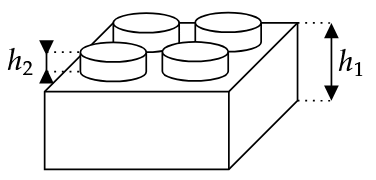
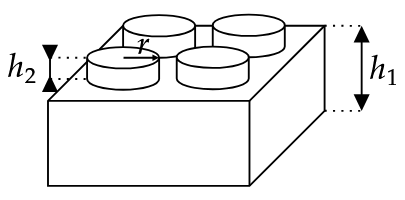
4C fertig

Changed region(s): [[0.0, 0.0556, 0.9947, 0.9722], [0.0878, 0.1944, 0.1463, 0.25]]

diff --git a/src/content/implementations/BW_2BFS/312-2024-4C-Betonkörper.tsx b/src/content/implementations/BW_2BFS/312-2024-4C-Betonkörper.tsx
@@ -1,6 +1,16 @@
 import { Exercise } from '@/data/types'
+import { Color4 } from '@/helper/colors'
+import { buildEquation, buildInlineFrac } from '@/helper/math-builder'
+import { pp } from '@/helper/pretty-print'
+import { roundToDigits } from '@/helper/round-to-digits'
 
-interface DATA {}
+interface DATA {
+  länge: number
+  h1: number
+  h2: number
+  r: number
+  weight: number
+}
 
 export const exercise312: Exercise<DATA> = {
   title: 'Betonkörper',
@@ -8,22 +18,32 @@ export const exercise312: Exercise<DATA> = {
   useCalculator: true,
   duration: 42,
   generator(rng) {
-    return {}
+    return {
+      länge: rng.randomIntBetween(20, 50) / 10,
+      h1: rng.randomIntBetween(20, 50) / 10,
+      h2: rng.randomIntBetween(1, 7) / 10,
+      r: rng.randomIntBetween(20, 50) / 10,
+      weight: rng.randomIntBetween(15, 35) * 100,
+    }
   },
-  originalData: {},
+  originalData: { länge: 3.5, h1: 1.4, h2: 0.4, r: 0.7, weight: 2600 },
   constraint({ data }) {
-    return true
+    return 2 * data.r < data.länge
   },
   intro({ data }) {
     return (
       <>
         <p>
           Vor einem Museum steht der abgebildete Körper aus Beton. Er hat eine
-          quadratische Grundfläche mit der Seitenlänge 3,5 m.
+          quadratische Grundfläche mit der Seitenlänge {pp(data.länge)} m.
         </p>
+        <svg viewBox="0 0 328 80">
+          <image href="/content/BW_2BFS/312.png" height="80" width="328" />
+        </svg>
         <p>
-          Die weiteren Maße des Lörpers sind: <br></br>h<sub>1</sub> = 1,4
-          m;&nbsp;&nbsp; h<sub>2</sub> = 0,4 m;&nbsp;&nbsp; r = 0,7 m
+          Die weiteren Maße des Körpers sind: <br></br>h<sub>1</sub> ={' '}
+          {pp(data.h1)} m;&nbsp;&nbsp; h<sub>2</sub> = {pp(data.h2)}{' '}
+          m;&nbsp;&nbsp; r = {pp(data.r)} m
         </p>
       </>
     )
@@ -38,14 +58,107 @@ export const exercise312: Exercise<DATA> = {
         return (
           <>
             <p>
-              Berechnen Sie, wie schwer der Körper ist, wenn 1 m³ Beton 2600 kg
-              wiegt.
+              Berechnen Sie, wie schwer der Körper ist, wenn 1 m³ Beton{' '}
+              {data.weight} kg wiegt.
             </p>
           </>
         )
       },
       solution({ data }) {
-        return <></>
+        return (
+          <>
+            <p>
+              <b>Volumen des Körpers</b>
+            </p>
+            <p>Berechne das Volumen der kleinen Zylinder:</p>
+            {buildEquation([
+              [
+                <>
+                  V<sub>Zylinder</sub>
+                </>,
+                <>=</>,
+                <>
+                  π · r² · h<sub>2</sub>
+                </>,
+              ],
+              [
+                <></>,
+                <>=</>,
+                <>
+                  π · {pp(data.r)}² · {pp(data.h2)}
+                </>,
+              ],
+              [
+                <></>,
+                <>≈</>,
+                <>
+                  {pp(roundToDigits(Math.PI * data.r * data.r * data.h2, 2))}
+                </>,
+              ],
+            ])}
+            <p>Das Volumen aller vier Zylinder beträgt:</p>
+            <p>
+              4 · {pp(roundToDigits(Math.PI * data.r * data.r * data.h2, 2))} ={' '}
+              {pp(roundToDigits(4 * Math.PI * data.r * data.r * data.h2, 2))}
+            </p>
+
+            <p>Das Volumen des Quaders ist:</p>
+            {buildEquation([
+              [
+                <>
+                  V<sub>Quader</sub>
+                </>,
+                <>=</>,
+                <>
+                  l · b · h<sub>1</sub>
+                </>,
+              ],
+              [
+                <></>,
+                <>=</>,
+                <>
+                  {pp(data.länge)} · {pp(data.länge)} · {pp(data.h1)}
+                </>,
+              ],
+              [<></>, <>=</>, <>{pp(data.länge * data.länge * data.h1)}</>],
+            ])}
+            <p>Das gesamte Volumen ist damit:</p>
+            <p>
+              {pp(roundToDigits(4 * Math.PI * data.r * data.r * data.h2, 2))} +{' '}
+              {pp(data.länge * data.länge * data.h1)} ≈{' '}
+              {pp(
+                data.länge * data.länge * data.h1 +
+                  roundToDigits(4 * Math.PI * data.r * data.r * data.h2, 2),
+              )}
+            </p>
+            <p>
+              Das Volumen beträgt:{' '}
+              {pp(
+                data.länge * data.länge * data.h1 +
+                  roundToDigits(4 * Math.PI * data.r * data.r * data.h2, 2),
+              )}{' '}
+              m³
+            </p>
+            <p>
+              <b>Gewicht des Körpers</b>
+            </p>
+            <p>Der Körper wiegt damit insgesamt:</p>
+            <p>
+              {pp(
+                data.länge * data.länge * data.h1 +
+                  roundToDigits(4 * Math.PI * data.r * data.r * data.h2, 2),
+              )}{' '}
+              m³ · {data.weight}
+              {buildInlineFrac(<>kg</>, <>m³</>)} ={' '}
+              {pp(
+                data.weight *
+                  (data.länge * data.länge * data.h1 +
+                    roundToDigits(4 * Math.PI * data.r * data.r * data.h2, 2)),
+              )}{' '}
+              kg
+            </p>
+          </>
+        )
       },
     },
     {
@@ -65,7 +178,174 @@ export const exercise312: Exercise<DATA> = {
         )
       },
       solution({ data }) {
-        return <></>
+        return (
+          <>
+            <p>
+              <b>Oberfläche der Zylinder</b>
+            </p>
+            <p>
+              Die Oberfläche der Zylinder besteht jeweils aus der Mantelfläche
+              und einem Deckel:
+            </p>
+            {buildEquation([
+              [
+                <>
+                  O<sub>Zylinder</sub>
+                </>,
+                <>=</>,
+                <>
+                  M<sub>Zylinder</sub> + D<sub>Zylinder</sub>
+                </>,
+              ],
+              [
+                <></>,
+                <>=</>,
+                <>
+                  2 · π · r · h<sub>2</sub> + π · r²
+                </>,
+              ],
+              [
+                <></>,
+                <>=</>,
+                <>
+                  2 · π · {pp(data.r)} · {pp(data.h2)} + π · {pp(data.r)}²
+                </>,
+              ],
+              [
+                <></>,
+                <>≈</>,
+                <>
+                  {pp(
+                    roundToDigits(
+                      2 * Math.PI * data.r * data.h2 +
+                        Math.PI * data.r * data.r,
+                      2,
+                    ),
+                  )}
+                </>,
+              ],
+            ])}
+            <p>
+              <b>Restliche Fläche des Quaders</b>
+            </p>
+            <svg viewBox="0 0 328 80">
+              <image
+                href="/content/BW_2BFS/312_2.png"
+                height="80"
+                width="328"
+              />
+            </svg>
+            <p>
+              Die Oberfläche besteht aus den vier Seitenflächen und der
+              Deckelfläche um die Zylinder.
+            </p>
+            <div>
+              <span style={{ fontSize: '0.8em' }}>
+                {buildEquation([
+                  [
+                    <>
+                      O<sub>Quader</sub>
+                    </>,
+                    <>=</>,
+                    <>
+                      M<sub>Quader</sub> + D<sub>Quader</sub>
+                    </>,
+                  ],
+                  [
+                    '',
+                    <>
+                      {' '}
+                      <Color4>
+                        <span className="inline-block  scale-y-[1.5]">↓</span>
+                      </Color4>
+                    </>,
+                    <>
+                      <div>
+                        <span style={{ fontSize: '0.7em' }}>
+                          <Color4>
+                            Die Deckelfläche des Quaders ist l · l, wobei man 4
+                            Kreisflächen abziehen muss
+                          </Color4>
+                        </span>
+                      </div>
+                    </>,
+                  ],
+                  [
+                    <></>,
+                    <>=</>,
+                    <>
+                      4 · l · h<sub>1</sub> + l · l - 4 · π · r²
+                    </>,
+                  ],
+                  [
+                    <></>,
+                    <>=</>,
+                    <>
+                      4 · {pp(data.länge)} · {pp(data.h1)} + {pp(data.länge)} ·{' '}
+                      {pp(data.länge)} - 4 · π · {pp(data.r)}²
+                    </>,
+                  ],
+                  [
+                    <></>,
+                    <>≈</>,
+                    <>
+                      {pp(
+                        roundToDigits(
+                          4 * data.länge * data.h1 +
+                            data.länge * data.länge -
+                            4 * Math.PI * data.r * data.r,
+                          2,
+                        ),
+                      )}
+                    </>,
+                  ],
+                ])}
+              </span>
+            </div>
+
+            <p>
+              <b>Gesamtfläche</b>
+            </p>
+            <p>Die gesamte Fläche beträgt:</p>
+            <p>
+              <div>
+                <span style={{ fontSize: '0.8em' }}>
+                  O = O<sub>Quader</sub> + O<sub>Quader</sub> ={' '}
+                  {pp(
+                    roundToDigits(
+                      2 * Math.PI * data.r * data.h2 +
+                        Math.PI * data.r * data.r,
+                      2,
+                    ),
+                  )}{' '}
+                  +{' '}
+                  {pp(
+                    roundToDigits(
+                      4 * data.länge * data.h1 +
+                        data.länge * data.länge -
+                        4 * Math.PI * data.r * data.r,
+                      2,
+                    ),
+                  )}{' '}
+                  ={' '}
+                  {pp(
+                    roundToDigits(
+                      2 * Math.PI * data.r * data.h2 +
+                        Math.PI * data.r * data.r,
+                      2,
+                    ) +
+                      roundToDigits(
+                        4 * data.länge * data.h1 +
+                          data.länge * data.länge -
+                          4 * Math.PI * data.r * data.r,
+                        2,
+                      ),
+                  )}
+                </span>
+              </div>
+            </p>
+          </>
+        )
       },
     },
   ],
